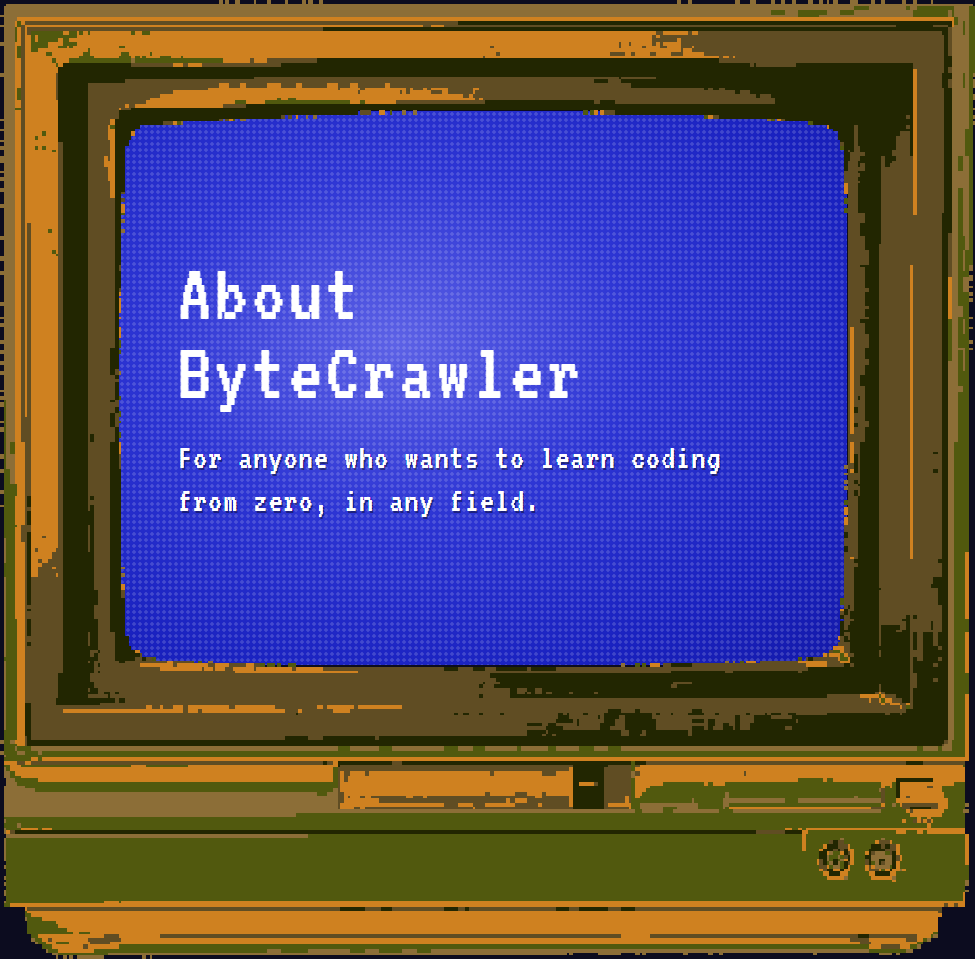
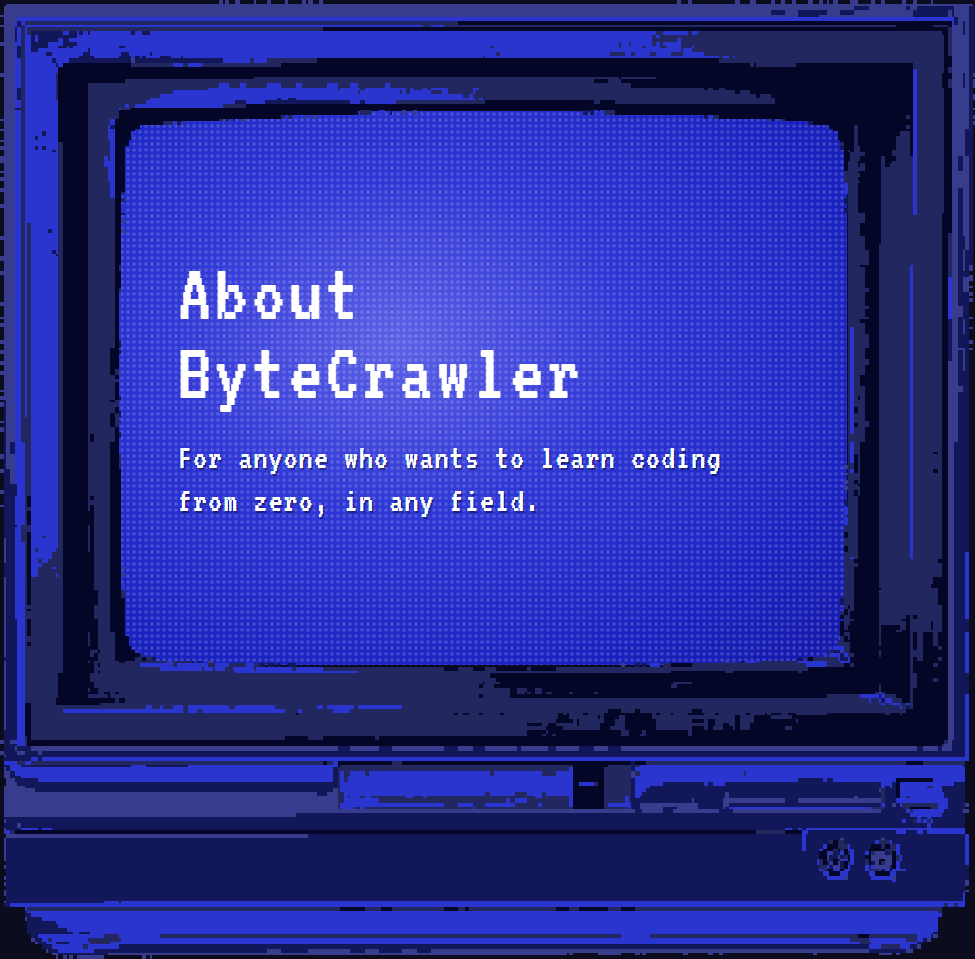
Add files via upload

diff --git a/css/style.css b/css/style.css
@@ -1,9 +1,9 @@
 :root{--page:#eef1f6;--card:#fff;--tx:#14142b;--mu:#4b5075;--line:#14142b;--top:#eceef6;--toptx:#2c3566;
---deep:#1a1ab0;--blue:#3b46e0;--bar:#5f6af0;--ink:#14142b;--play:#0a6cf0;--gold:#ffd23f;
+--deep:#0511f2;--blue:#3d46f2;--bar:#5c64f2;--ink:#14142b;--play:#0a6cf0;--gold:#ffd23f;
 --px:"Silkscreen","Press Start 2P",ui-monospace,monospace;--mono:"Space Mono",ui-monospace,Menlo,monospace;--ser:"IBM Plex Serif",Georgia,serif;
 color-scheme:light;box-sizing:border-box;padding-top:env(safe-area-inset-top,0px);padding-bottom:env(safe-area-inset-bottom,0px)}
-@media(prefers-color-scheme:dark){:root:not([data-theme="light"]){--page:#0c0c1f;--card:#16163a;--tx:#eef0ff;--mu:#a9aee0;--line:#5f6af0;--top:#2a2a2e;--toptx:#c9cdf5;color-scheme:dark}}
-:root[data-theme="dark"]{--page:#0c0c1f;--card:#16163a;--tx:#eef0ff;--mu:#a9aee0;--line:#5f6af0;--top:#2a2a2e;--toptx:#c9cdf5;color-scheme:dark}
+@media(prefers-color-scheme:dark){:root:not([data-theme="light"]){--page:#0c0c1f;--card:#16163a;--tx:#eef0ff;--mu:#a9aee0;--line:#5c64f2;--top:#2a2a2e;--toptx:#c9cdf5;color-scheme:dark}}
+:root[data-theme="dark"]{--page:#0c0c1f;--card:#16163a;--tx:#eef0ff;--mu:#a9aee0;--line:#5c64f2;--top:#2a2a2e;--toptx:#c9cdf5;color-scheme:dark}
 *,*::before,*::after{box-sizing:inherit}
 html{scroll-padding-top:calc(env(safe-area-inset-top,0px) + 110px);scroll-behavior:smooth}
 body{margin:0;background:var(--page);color:var(--tx);font:400 17px/1.7 var(--ser)}
@@ -40,7 +40,7 @@ header[data-nav="hidden"]{transform:translateY(calc(-100% - 8px))}
 /* hero */
 .hero{background:var(--deep);position:relative;overflow:hidden;color:#fff;text-align:center;padding:96px 0 120px;
 background-image:radial-gradient(rgba(255,255,255,.22) 1.5px,transparent 1.6px),radial-gradient(rgba(95,106,240,.5) 2px,transparent 2.1px);background-size:18px 18px,34px 34px;background-position:0 0,9px 9px}
-.hero::before,.hero::after{content:"";position:absolute;top:0;bottom:0;width:clamp(20px,6vw,64px);background:repeating-linear-gradient(#3b46e0 0 16px,#5f6af0 16px 32px);opacity:.9}
+.hero::before,.hero::after{content:"";position:absolute;top:0;bottom:0;width:clamp(20px,6vw,64px);background:repeating-linear-gradient(#3d46f2 0 16px,#5c64f2 16px 32px);opacity:.9}
 .hero::before{left:0;border-right:8px solid #0e0e80}.hero::after{right:0;border-left:8px solid #0e0e80}
 .hero .in{position:relative;max-width:760px;margin:0 auto;padding:0 clamp(32px,8vw,90px)}
 .hero h1{font-size:clamp(34px,7vw,72px);text-shadow:4px 4px 0 var(--blue);letter-spacing:.03em}
@@ -61,7 +61,7 @@ section{padding:84px 0}
 .journey .card{background:#12127f;border-color:#8a93ff;box-shadow:5px 5px 0 #0a0a55;color:#fff}.journey .card p{color:#c9cdf5}
 .two{display:grid;grid-template-columns:1fr 1fr;gap:24px;margin-top:40px}
 .xp{height:14px;border:2px solid #8a93ff;margin-top:16px;background:#0a0a55}.xp b{display:block;height:100%;background:var(--gold)}
-.play{position:relative;padding:110px 0 150px;text-align:center;background:linear-gradient(#e0ecff 0 18%,#c9ccf5 18% 30%,#5f6af0 30% 46%,#3b46e0 46% 64%,#2a1ca8 64% 82%,#4a55e0 82%)}
+.play{position:relative;padding:110px 0 150px;text-align:center;background:linear-gradient(#e0ecff 0 18%,#c9ccf5 18% 30%,#5c64f2 30% 46%,#3d46f2 46% 64%,#2a1ca8 64% 82%,#4a55e0 82%)}
 .play::before{content:"";position:absolute;inset:0;background-image:radial-gradient(rgba(255,255,255,.35) 1.5px,transparent 1.6px);background-size:16px 16px;opacity:.5}
 .dialog{position:relative;background:#f1f1f1;color:var(--ink);border:4px solid var(--ink);box-shadow:6px 6px 0 var(--ink);max-width:420px;margin:0 auto;padding:30px 34px 36px}
 .dialog h2{font:700 24px var(--mono);text-transform:none;margin-bottom:24px}
@@ -176,7 +176,7 @@ code{font-family:var(--mono);background:rgba(95,106,240,.18);padding:1px 5px}
 @media(prefers-color-scheme:dark){:root:not([data-theme="light"]){--easy:#181838}}
 :root[data-theme="dark"]{--easy:#181838}
 .easy{background:var(--easy)!important;color:var(--tx)!important}.easy h2{color:var(--tx)!important;-webkit-text-stroke-color:var(--tx)!important}.easy p{color:var(--tx)!important}.easy::after{opacity:.2!important}
-.play{background:linear-gradient(#a9b6d8 0 18%,#9aa0dc 18% 30%,#5f6af0 30% 46%,#3b46e0 46% 64%,#2a1ca8 64% 82%,#4a55e0 82%)!important}
+.play{background:linear-gradient(#a9b6d8 0 18%,#9aa0dc 18% 30%,#5c64f2 30% 46%,#3d46f2 46% 64%,#2a1ca8 64% 82%,#4a55e0 82%)!important}
 .dialog{background:#e0ddd2!important}
 .hero .in{z-index:2}
 .hero .cb1,.hero .cb2{position:absolute;inset:0;z-index:1;pointer-events:none;image-rendering:pixelated;background-position:center;background-size:cover;background-repeat:no-repeat;animation:crownBlink 1.6s steps(1,end) infinite}
@@ -252,7 +252,7 @@ background:linear-gradient(transparent 26%,#23232f 26% 32%,transparent 32% 66%,#
 .rd-hd{font:700 11px var(--mono);letter-spacing:.1em;text-transform:uppercase;color:var(--mu);padding:8px 14px 6px}
 .rd-nav{display:flex;gap:10px;align-items:center;width:100%;text-align:left;padding:8px 14px;font:700 13px var(--mono);color:var(--tx);background:none;border:0;cursor:pointer}
 .rd-nav:hover{background:rgba(95,106,240,.14)}.rd-nav.on{background:var(--bar);color:#fff}.rd-nav em{margin-left:auto;font-style:normal;color:var(--gold)}
-.rd-av{flex:none;width:24px;height:24px;display:inline-grid;place-items:center;font:700 11px var(--px);color:#fff;background:var(--c,#3b46e0);border:2px solid var(--ink)}
+.rd-av{flex:none;width:24px;height:24px;display:inline-grid;place-items:center;font:700 11px var(--px);color:#fff;background:var(--c,#3d46f2);border:2px solid var(--ink)}
 .rd-bar{display:flex;gap:10px;flex-wrap:wrap;align-items:center;padding:12px;margin-bottom:16px}
 .rd-bar input{flex:1 1 160px;min-width:0;padding:8px 12px;font:14px var(--mono)}
 .rd-tabs{display:flex;gap:6px}.rd-tabs button,.rd-btn{font:700 12px var(--mono);color:var(--tx);background:var(--card);border:2px solid var(--line);padding:7px 12px;cursor:pointer}
@@ -282,15 +282,15 @@ background:linear-gradient(transparent 26%,#23232f 26% 32%,transparent 32% 66%,#
 @media(max-width:760px){.rd{grid-template-columns:1fr}.rd-side,.rd-right{position:static;grid-template-columns:1fr}}
 
 /* Home: contact band (lime green text on dark) */
-.lime-contact{position:relative;background:#14142b radial-gradient(rgba(95,106,240,.22) 1.3px,transparent 1.4px) 0 0/14px 14px;color:#b8f032;padding:72px 0;border-top:4px solid #5f6af0;border-bottom:4px solid #5f6af0}
+.lime-contact{position:relative;background:#14142b radial-gradient(rgba(95,106,240,.22) 1.3px,transparent 1.4px) 0 0/14px 14px;color:#b8f032;padding:72px 0;border-top:4px solid #5c64f2;border-bottom:4px solid #5c64f2}
 .lc-in{display:grid;grid-template-columns:1fr 1fr;gap:40px;align-items:center}
-.lime-contact h2{font-size:clamp(28px,5vw,46px);color:#b8f032;text-shadow:3px 3px 0 #3b46e0}
+.lime-contact h2{font-size:clamp(28px,5vw,46px);color:#b8f032;text-shadow:3px 3px 0 #3d46f2}
 .lime-contact p{margin-top:14px;max-width:420px;color:#b8f032}
 .lime-contact form{margin-top:0;max-width:none}
 .lime-contact label{color:#b8f032}
 .lime-contact input,.lime-contact textarea{background:#0e0e24;color:#b8f032;border:3px solid #b8f032}
 .lime-contact input::placeholder,.lime-contact textarea::placeholder{color:rgba(184,240,50,.5)}
-.lime-contact input:focus,.lime-contact textarea:focus{outline:3px solid #5f6af0;outline-offset:2px}
+.lime-contact input:focus,.lime-contact textarea:focus{outline:3px solid #5c64f2;outline-offset:2px}
 .lime-contact .ok{color:#b8f032}
 @media(max-width:860px){.lc-in{grid-template-columns:1fr;gap:24px}.lime-contact{padding:52px 0}}
 

diff --git a/css/about-tv.css b/css/about-tv.css
@@ -1,0 +1,66 @@
+/* About page, old-TV studio theme in the site's blue palette (#0511F2 #3D46F2 #5C64F2 #9498F2 #F2F2F2).
+   Layers on top of about.css; the monitor frame, copy and structure are unchanged.
+   Images: tv-wall.png (stack of CRT TVs; swap in a real photo with a transparent background to change it), tv-truss.png, tv-lamp.png */
+#about{background:#0a0c1e;color:var(--pale);--ab-line:#5c64f2;--ab-card:#12143a}
+.ab-eye{color:var(--lav)}
+.ab-h{color:#fff;text-shadow:3px 3px 0 #0511f2}
+.ab-chips li{color:#fff;background:#12143a;border-color:#5c64f2;box-shadow:4px 4px 0 #3d46f2}
+
+/* studio layer: truss + spotlights + TV stacks (hero and closing section) */
+.ab-hero,.ab-cta{position:relative;isolation:isolate;overflow:hidden}
+.ab-hero>.wrap,.ab-cta>.in{position:relative;z-index:2}
+.tvd{position:absolute;inset:0;z-index:0;pointer-events:none}
+.tvd::before{content:"";position:absolute;inset:0 0 auto 0;height:300px;opacity:.7;image-rendering:pixelated;
+ background:url(../assets/images/tv-truss.png) 0 0/144px 144px repeat;
+ -webkit-mask-image:linear-gradient(#000 40%,transparent);mask-image:linear-gradient(#000 40%,transparent)}
+.tvd::after{content:"";position:absolute;inset:0;background:
+ radial-gradient(ellipse 60% 45% at 50% 0%,rgba(92,100,242,.38),transparent 70%),
+ radial-gradient(ellipse 70% 40% at 50% 100%,rgba(61,70,242,.3),transparent 70%)}
+.lp{position:absolute;top:0;width:54px;height:78px;z-index:1;background:url(../assets/images/tv-lamp.png) 0 0/100% 100% no-repeat;image-rendering:pixelated}
+.lp::before{content:"";position:absolute;left:50%;top:84%;width:300px;height:420px;margin-left:-150px;transform-origin:50% 0;
+ background:linear-gradient(rgba(190,196,255,.36),rgba(148,152,242,0));clip-path:polygon(44% 0,56% 0,100% 100%,0 100%);animation:lampfl 3.2s steps(8) infinite alternate}
+.lp.l1{left:20%}.lp.l2{left:50%;margin-left:-27px}.lp.l3{right:20%}
+.lp.l1::before{transform:rotate(12deg)}.lp.l3::before{transform:rotate(-12deg)}
+@keyframes lampfl{from{opacity:.75}to{opacity:1}}
+.st{position:absolute;bottom:-6px;width:min(400px,30vw);aspect-ratio:943/705;z-index:1;background:url(../assets/images/tv-wall.png) 0 0/100% 100% no-repeat;filter:drop-shadow(0 0 30px rgba(92,100,242,.45))}
+.st.sl{left:-60px}.st.sr{right:-60px;transform:scaleX(-1)}
+
+/* hero */
+.ab-hero{padding:100px 0 90px;background:linear-gradient(#0a0c1e,#10124a 75%,#1a1d78)}
+.crt{filter:drop-shadow(0 0 40px rgba(92,100,242,.5))}
+
+/* video, framed like a TV */
+.ab-video{background:linear-gradient(#1a1d78,#0a0c1e);padding:72px 0 120px}
+.vbox{border:6px solid #0a0a14;border-radius:26px / 34px;box-shadow:0 0 0 14px #34323c,0 0 0 18px #0a0a14,0 0 90px rgba(92,100,242,.45),0 26px 0 6px #0a0a14;background-color:#0d0f26}
+.vbox::after{content:"";position:absolute;inset:0;z-index:2;pointer-events:none;background:repeating-linear-gradient(rgba(0,0,0,.16) 0 2px,transparent 2px 5px);box-shadow:inset 0 0 70px rgba(0,0,0,.55)}
+.vbox::before{background:#3d46f2;mix-blend-mode:color;opacity:.9}
+.vplay i{background:var(--pale)}.vplay i::before{border-left-color:#0511f2}
+.vplay{text-shadow:2px 2px 0 #0a0c1e}
+
+/* mission */
+.ab-mission{border-top:4px solid #3d46f2;border-bottom:4px solid #3d46f2}
+.ab-code{border:6px solid #34323c;border-radius:18px / 22px;box-shadow:0 0 0 4px #0a0a14,6px 10px 0 4px #0a0a14;overflow:hidden}
+.ab-code-bar{background:#23234a}
+.ab-mbox{background:#12143a;border-color:#9498f2;box-shadow:6px 6px 0 #0a0c6a}
+.ab-mbox .ab-eye{color:var(--lav)}
+.ab-mbox>p{color:#c9cdf5}
+.ab-tags li{color:#fff;background:#0a0c1e;border-color:#5c64f2}
+
+/* beliefs */
+.ab-believe{background:linear-gradient(#0a0c1e,#10124a);border-top:0}
+.ab-card{background:var(--ab-card);border-color:#5c64f2;box-shadow:8px 8px 0 #3d46f2}
+.ab-card p{color:#c9cdf5}
+
+/* closing */
+.ab-cta{padding:130px 0;background:linear-gradient(#10124a,#0a0c1e 40%,#1a1d78)}
+.ab-cta::before{display:none}
+.ab-cta h2{text-shadow:4px 4px 0 #0511f2}
+
+@media(max-width:1100px){.st{width:min(300px,26vw)}}
+@media(max-width:900px){
+ .st{display:none}.lp{width:40px;height:58px}.lp.l1{left:12%}.lp.l3{right:12%}
+ .lp::before{width:200px;height:300px;margin-left:-100px}
+ .ab-hero{padding:72px 0 60px}.vbox{box-shadow:0 0 0 9px #34323c,0 0 0 12px #0a0a14,0 0 50px rgba(92,100,242,.4)}
+ .ab-video{padding:56px 0 80px}.ab-cta{padding:90px 0}
+}
+@media(prefers-reduced-motion:reduce){.lp::before{animation:none}}

diff --git a/css/about.css b/css/about.css
@@ -1,6 +1,6 @@
 /* About page: retro monitor hero, video, mission, beliefs, closing call to action.
    Always dark so it reads the same in light or dark theme. Images: about-crt.png, about-code.png, arches.png, ruins.jpg */
-#about{background:#0a0c1e;color:#eef0ff;--ab-line:#5f6af0;--ab-card:#16163a}
+#about{background:#0a0c1e;color:#eef0ff;--ab-line:#5c64f2;--ab-card:#16163a}
 .ab-eye{display:block;font:400 22px var(--mono);letter-spacing:.32em;text-transform:uppercase;color:#4a55f0}
 .ab-eye.c,.ab-h.c{text-align:center}
 .ab-h{font:400 clamp(44px,5.4vw,72px)/1 var(--px);text-transform:none;letter-spacing:.02em;color:#f1f2ff}
@@ -31,7 +31,7 @@
 .vbox.off .vplay{cursor:default}.vbox.off .vplay:hover i{transform:none}
 
 /* mission */
-.ab-mission{padding:64px 0;background:#1a1ab0 radial-gradient(rgba(255,255,255,.16) 1px,transparent 1.2px) 0 0/16px 16px}
+.ab-mission{padding:64px 0;background:#0511f2 radial-gradient(rgba(255,255,255,.16) 1px,transparent 1.2px) 0 0/16px 16px}
 .ab-mission-in{display:grid;grid-template-columns:minmax(0,1fr) minmax(0,1fr);gap:48px;align-items:stretch}
 .ab-code{margin:0;background:#000;border:3px solid #0a0c1e;box-shadow:6px 6px 0 #0d0d6a;display:flex;flex-direction:column;min-height:300px}
 .ab-code-bar{display:flex;align-items:center;gap:8px;padding:12px 16px;background:#1f2038;font:400 20px var(--mono);color:#cfd3ff}
@@ -46,7 +46,7 @@
 .ab-tags li{padding:6px 16px;font:400 22px var(--mono);color:#eef0ff;background:#12122e;border:2px solid var(--ab-line)}
 
 /* beliefs */
-.ab-believe{padding:96px 0 104px;background:#0a0c1e;border-top:4px solid #1a1ab0}
+.ab-believe{padding:96px 0 104px;background:#0a0c1e;border-top:4px solid #0511f2}
 .ab-believe .ab-eye{margin-bottom:10px}
 .ab-cards{display:grid;grid-template-columns:repeat(3,minmax(0,1fr));gap:40px;margin-top:64px}
 .ab-card{padding:44px 44px 48px;background:var(--ab-card);border:3px solid var(--ab-line);box-shadow:8px 8px 0 var(--ab-line)}
@@ -59,7 +59,7 @@
  background:#0a0d22 url(../assets/images/about-cta.jpg) center/cover no-repeat;image-rendering:pixelated}
 .ab-cta::before{content:"";position:absolute;inset:0;z-index:-1;background:radial-gradient(ellipse 60% 55% at 50% 48%,rgba(6,8,24,.68),rgba(6,8,24,.2) 80%),linear-gradient(rgba(6,8,24,.1),rgba(20,26,110,.5))}
 .ab-cta .in{max-width:760px;margin:0 auto;padding:0 24px}
-.ab-cta h2{font:400 clamp(56px,7vw,96px)/.95 var(--px);text-transform:none;letter-spacing:.03em;text-shadow:4px 4px 0 #3b46e0}
+.ab-cta h2{font:400 clamp(56px,7vw,96px)/.95 var(--px);text-transform:none;letter-spacing:.03em;text-shadow:4px 4px 0 #3d46f2}
 .ab-cta p{margin:22px 0 36px;font:400 28px/1.3 var(--mono);color:#eef0ff}
 .ab-btns{display:flex;flex-wrap:wrap;gap:16px;justify-content:center}
 

diff --git a/index.html b/index.html
@@ -6,6 +6,7 @@
 <title>ByteCrawler: Easy as speaking English</title>
 <link rel="icon" type="image/svg+xml" href="assets/favicon.svg">
 <link rel="preconnect" href="https://fonts.googleapis.com">
+<link rel="preconnect" href="https://fonts.gstatic.com" crossorigin>
 <link href="https://fonts.googleapis.com/css2?family=VT323&display=swap" rel="stylesheet">
 <link rel="stylesheet" href="css/loader.css?v=3">
 <link rel="stylesheet" href="css/tokens.css?v=3">
@@ -20,6 +21,7 @@
 <link rel="stylesheet" href="css/dashboard.css?v=3">
 <link rel="stylesheet" href="css/contact.css?v=3">
 <link rel="stylesheet" href="css/about.css?v=3">
+<link rel="stylesheet" href="css/about-tv.css?v=1">
 <link rel="stylesheet" href="css/community.css?v=3">
 <noscript><style>.loader{display:none}html.is-loading{overflow:auto}</style></noscript>
 </head>
@@ -91,7 +93,7 @@
 </div>
 <div class="pg" id="about">
 <!-- Hero: retro monitor. Edit the text on the screen here. -->
-<section class="ab-hero" aria-labelledby="abTitle"><div class="wrap">
+<section class="ab-hero" aria-labelledby="abTitle"><div class="tvd" aria-hidden="true"><i class="lp l1"></i><i class="lp l2"></i><i class="lp l3"></i><i class="st sl"></i><i class="st sr"></i></div><div class="wrap">
  <div class="crt"><img src="assets/images/about-crt.png" alt="" aria-hidden="true">
   <div class="crt-scr"><h1 id="abTitle">About ByteCrawler</h1><p>For anyone who wants to learn coding from zero, in any field.</p></div></div>
  <ul class="ab-chips" aria-label="Who it is for"><li>Young people</li><li>Every field</li><li>Starting from zero</li></ul>
@@ -119,7 +121,7 @@
  </div>
 </div></section>
 
-<section class="ab-cta"><div class="in"><h2>Still curious?</h2><p>Tell us how you like to learn.</p><div class="ab-btns"><a class="btn g" href="#contact">Get in touch →</a><a class="btn" href="#course">Start playing</a></div></div></section>
+<section class="ab-cta"><div class="tvd" aria-hidden="true"><i class="lp l1"></i><i class="lp l3"></i><i class="st sl"></i><i class="st sr"></i></div><div class="in"><h2>Still curious?</h2><p>Tell us how you like to learn.</p><div class="ab-btns"><a class="btn g" href="#contact">Get in touch →</a><a class="btn" href="#course">Start playing</a></div></div></section>
 </div>
 
 <div class="pg" id="course">

diff --git a/css/home.css b/css/home.css
@@ -22,11 +22,11 @@
 .journey .card{background:#12127f;border-color:#8a93ff;box-shadow:5px 5px 0 #0a0a55;color:#fff}.journey .card p{color:#c9cdf5}
 .two{display:grid;grid-template-columns:1fr 1fr;gap:24px;margin-top:40px}
 .xp{height:14px;border:2px solid #8a93ff;margin-top:16px;background:#0a0a55}.xp b{display:block;height:100%;background:var(--gold)}
-.play{position:relative;padding:110px 0 150px;text-align:center;background:linear-gradient(#e0ecff 0 18%,#c9ccf5 18% 30%,#5f6af0 30% 46%,#3b46e0 46% 64%,#2a1ca8 64% 82%,#4a55e0 82%)}
+.play{position:relative;padding:110px 0 150px;text-align:center;background:linear-gradient(#e0ecff 0 18%,#c9ccf5 18% 30%,#5c64f2 30% 46%,#3d46f2 46% 64%,#2a1ca8 64% 82%,#4a55e0 82%)}
 .play::before{content:"";position:absolute;inset:0;background-image:radial-gradient(rgba(255,255,255,.35) 1.5px,transparent 1.6px);background-size:16px 16px;opacity:.5}
 .dialog{position:relative;background:#f1f1f1;color:var(--ink);border:4px solid var(--ink);box-shadow:6px 6px 0 var(--ink);max-width:420px;margin:0 auto;padding:30px 34px 36px}
 .dialog h2{font:400 31px var(--mono);text-transform:none;margin-bottom:24px}
-.play{background:linear-gradient(#a9b6d8 0 18%,#9aa0dc 18% 30%,#5f6af0 30% 46%,#3b46e0 46% 64%,#2a1ca8 64% 82%,#4a55e0 82%)!important}
+.play{background:linear-gradient(#a9b6d8 0 18%,#9aa0dc 18% 30%,#5c64f2 30% 46%,#3d46f2 46% 64%,#2a1ca8 64% 82%,#4a55e0 82%)!important}
 .dialog{background:#e0ddd2!important}
 .play{background:#2a22a4 url(../assets/images/play-bg.png) center/cover no-repeat!important;image-rendering:pixelated}
 .play::before{display:none!important}

diff --git a/css/tokens.css b/css/tokens.css
@@ -1,10 +1,10 @@
 /* Design tokens: colours, fonts, light/dark themes */
 :root{--page:#eef1f6;--card:#fff;--tx:#14142b;--mu:#4b5075;--line:#14142b;--top:#eceef6;--toptx:#2c3566;
---deep:#1a1ab0;--blue:#3b46e0;--bar:#5f6af0;--ink:#14142b;--play:#0a6cf0;--gold:#ffd23f;
+--deep:#0511f2;--blue:#3d46f2;--bar:#5c64f2;--ink:#14142b;--play:#0a6cf0;--gold:#ffd23f;--lav:#9498f2;--pale:#f2f2f2;
 --px:"VT323",ui-monospace,monospace;--mono:"VT323",ui-monospace,monospace;--ser:"VT323",ui-monospace,monospace;
 color-scheme:light;box-sizing:border-box;padding-top:env(safe-area-inset-top,0px);padding-bottom:env(safe-area-inset-bottom,0px)}
-@media(prefers-color-scheme:dark){:root:not([data-theme="light"]){--page:#0c0c1f;--card:#16163a;--tx:#eef0ff;--mu:#a9aee0;--line:#5f6af0;--top:#2a2a2e;--toptx:#c9cdf5;color-scheme:dark}}
-:root[data-theme="dark"]{--page:#0c0c1f;--card:#16163a;--tx:#eef0ff;--mu:#a9aee0;--line:#5f6af0;--top:#2a2a2e;--toptx:#c9cdf5;color-scheme:dark}
+@media(prefers-color-scheme:dark){:root:not([data-theme="light"]){--page:#0c0c1f;--card:#16163a;--tx:#eef0ff;--mu:#a9aee0;--line:#5c64f2;--top:#2a2a2e;--toptx:#c9cdf5;color-scheme:dark}}
+:root[data-theme="dark"]{--page:#0c0c1f;--card:#16163a;--tx:#eef0ff;--mu:#a9aee0;--line:#5c64f2;--top:#2a2a2e;--toptx:#c9cdf5;color-scheme:dark}
 :root{--page:#dcd8cb;--card:#ebe7da;--tx:#1d1d33;--mu:#55587a;--line:#2a2a48;--top:#cfccc0;--toptx:#2c3566;--easy:#d3cfc0}
 @media(prefers-color-scheme:dark){:root:not([data-theme="light"]){--easy:#181838}}
 :root[data-theme="dark"]{--easy:#181838}

diff --git a/css/community.css b/css/community.css
@@ -9,7 +9,7 @@
 .rd-hd{font:400 14px var(--mono);letter-spacing:.1em;text-transform:uppercase;color:var(--mu);padding:8px 14px 6px}
 .rd-nav{display:flex;gap:10px;align-items:center;width:100%;text-align:left;padding:8px 14px;font:400 17px var(--mono);color:var(--tx);background:none;border:0;cursor:pointer}
 .rd-nav.on{background:var(--bar);color:#fff}.rd-nav em{margin-left:auto;font-style:normal;color:var(--gold)}
-.rd-av{flex:none;width:24px;height:24px;display:inline-grid;place-items:center;font:400 14px var(--px);color:#fff;background:var(--c,#3b46e0);border:2px solid var(--ink)}
+.rd-av{flex:none;width:24px;height:24px;display:inline-grid;place-items:center;font:400 14px var(--px);color:#fff;background:var(--c,#3d46f2);border:2px solid var(--ink)}
 .rd-bar{display:flex;gap:10px;flex-wrap:wrap;align-items:center;padding:12px;margin-bottom:16px}
 .rd-bar input{flex:1 1 160px;min-width:0;padding:8px 12px;font:18px var(--mono)}
 .rd-tabs{display:flex;gap:6px}.rd-tabs button,.rd-btn{font:400 16px var(--mono);color:var(--tx);background:var(--card);border:2px solid var(--line);padding:7px 12px;cursor:pointer}

diff --git a/js/community.js b/js/community.js
@@ -2,7 +2,7 @@
 (function(){
 function $(i){return document.getElementById(i)}
 function esc(t){return String(t).replace(/[&<>"']/g,function(c){return{"&":"&amp;","<":"&lt;",">":"&gt;",'"':"&quot;","'":"&#39;"}[c]})}
-var C=[{k:"bytecrawler",n:"r/ByteCrawler",c:"#3b46e0",m:"12.4k",d:"The official hangout: boss-room wins, feedback and tips."},
+var C=[{k:"bytecrawler",n:"r/ByteCrawler",c:"#3d46f2",m:"12.4k",d:"The official hangout: boss-room wins, feedback and tips."},
 {k:"learnpython",n:"r/LearnPython",c:"#2f8f5b",m:"8.1k",d:"Beginner-friendly Python questions, no silly questions allowed."},
 {k:"mathhelp",n:"r/MathHelp",c:"#c0504d",m:"5.7k",d:"Maths twins for every coding idea. Ask, explain, repeat."},
 {k:"pixelart",n:"r/PixelArt",c:"#7b5bd6",m:"3.2k",d:"Sprites, potions, swords and dungeon tiles."},
